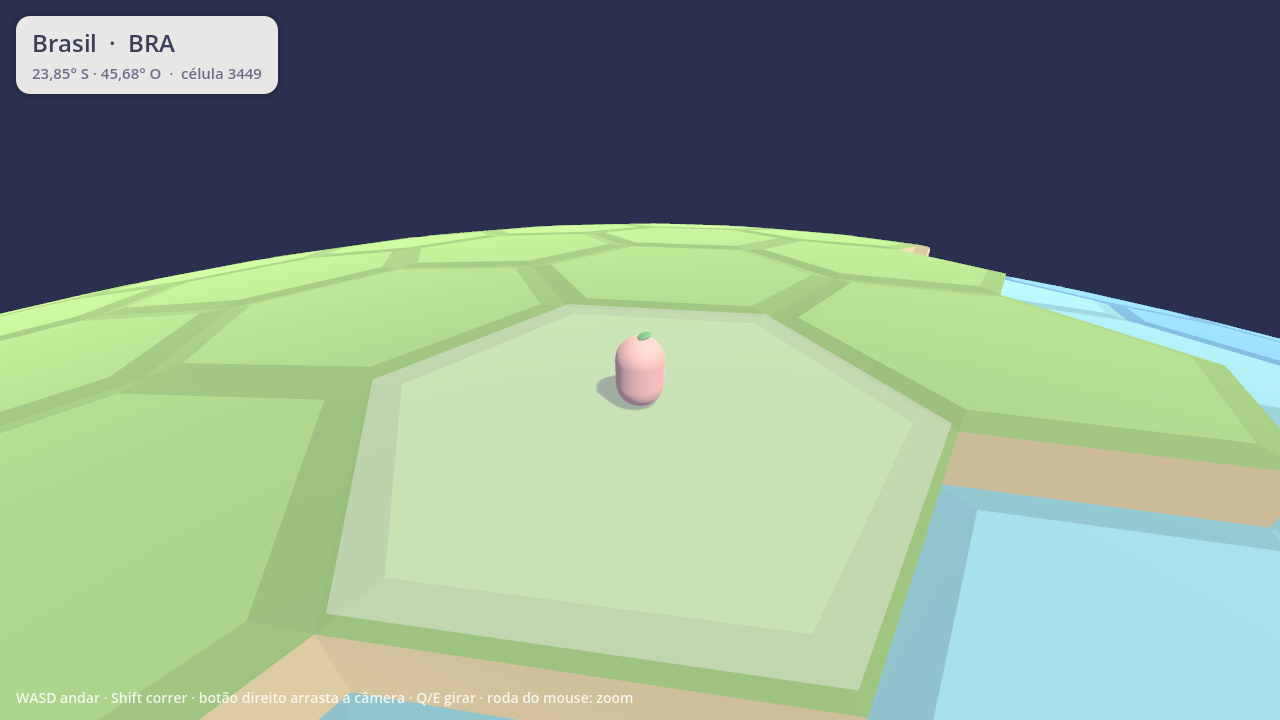
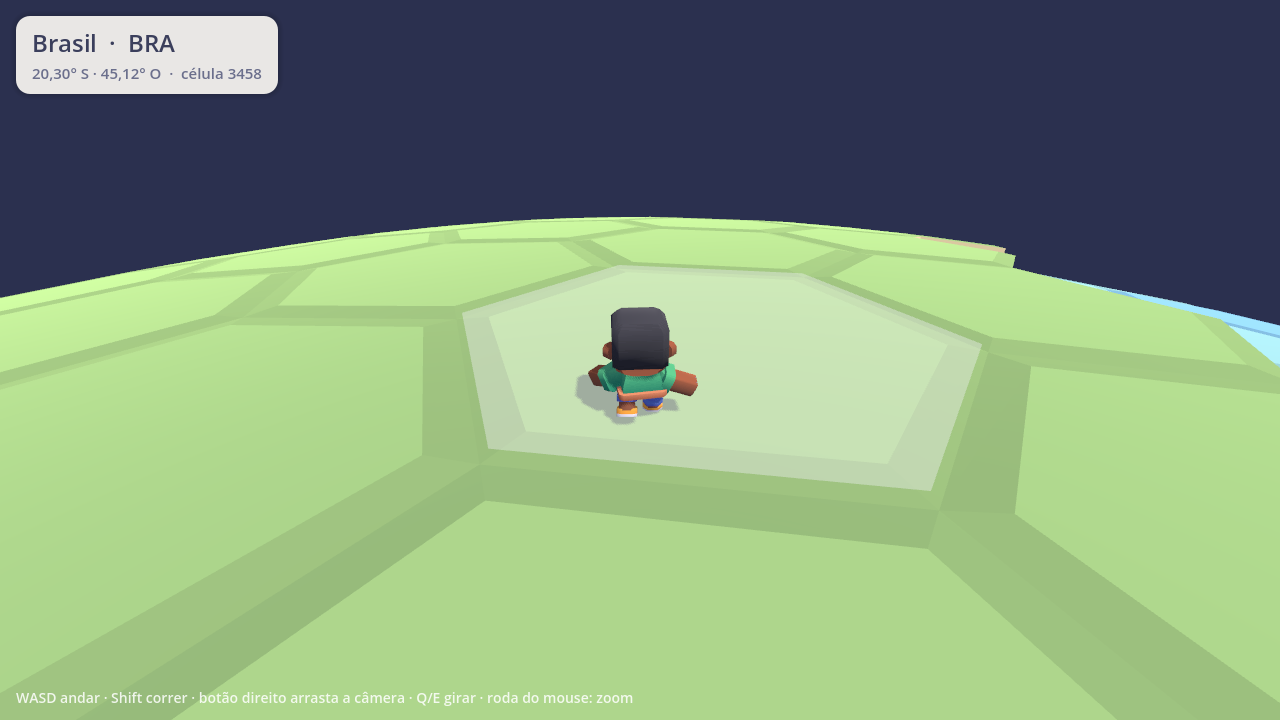
Adiciona créditos da Kenney e explica PATH do Go e servidor
Cria client/assets/CREDITOS.md, seção de créditos no README, instruções para
pôr ~/sdk/go/bin no PATH e aviso de que o servidor precisa rodar num terminal
separado antes do Play. Atualiza imagens e GIF com o personagem novo.

diff --git a/README.md b/README.md
@@ -16,7 +16,7 @@
 </p>
 
 <p align="center">
-  <img src="docs/imagens/passeio.gif" alt="Personagem rosa andando sobre hexágonos verdes no Brasil; a câmera se afasta até mostrar o globo inteiro girando e depois volta" width="720" />
+  <img src="docs/imagens/passeio.gif" alt="Personagem andando sobre hexágonos verdes no Brasil; a câmera se afasta até mostrar o globo inteiro girando e depois volta" width="720" />
 </p>
 
 ---
@@ -33,6 +33,7 @@
 - [Controles](#controles)
 - [Testes](#testes)
 - [Dados](#dados)
+- [Créditos](#créditos)
 - [Roadmap](#roadmap)
 - [Sobre mim](#sobre-mim)
 
@@ -48,6 +49,7 @@ O que já dá para fazer:
 
 - [x] Ver um **globo low-poly** com os continentes reais, dividido em **4.002 hexágonos** (e 12 pentágonos, como numa bola de futebol)
 - [x] **Zoom contínuo** do personagem até o planeta inteiro, que gira devagar sozinho
+- [x] **Personagem animado** (Mini Characters da Kenney) que fica parado, anda e corre com transição suave e vira para onde está indo
 - [x] **Andar com WASD** por cima da esfera, com a gravidade puxando para o centro: dá para dar a volta ao mundo
 - [x] **Não entrar no oceano** (o personagem desliza pela costa)
 - [x] **HUD** com o país e a latitude/longitude do hexágono embaixo do personagem, que fica destacado
@@ -58,7 +60,7 @@ O que já dá para fazer:
 
 | Perto do personagem | Meia distância | O planeta inteiro |
 | --- | --- | --- |
-| <img src="docs/imagens/perto.png" alt="Personagem rosa em cima de um hexágono destacado, com o mar e o degrau de areia ao lado" width="300" /> | <img src="docs/imagens/meio.png" alt="Litoral de São Paulo em hexágonos: terra verde elevada e mar azul-claro" width="300" /> | <img src="docs/imagens/globo.png" alt="Globo com a América do Sul e a África em hexágonos verdes sobre o oceano azul" width="300" /> |
+| <img src="docs/imagens/perto.png" alt="Personagem do Mini Characters andando em cima de um hexágono destacado" width="300" /> | <img src="docs/imagens/meio.png" alt="Litoral de São Paulo em hexágonos: terra verde elevada e mar azul-claro" width="300" /> | <img src="docs/imagens/globo.png" alt="Globo com a América do Sul e a África em hexágonos verdes sobre o oceano azul" width="300" /> |
 
 ## Arquitetura
 
@@ -108,6 +110,7 @@ Mais detalhes em [`docs/ARQUITETURA.md`](docs/ARQUITETURA.md) e nas decisões em
 | Servidor | Go 1.27, biblioteca padrão | Binário único, rápido, testes embutidos |
 | Geometria | [`paulmach/orb`](https://github.com/paulmach/orb) | GeoJSON e point-in-polygon prontos |
 | Cliente | Godot 4.7 + GDScript | Leve, código aberto, exporta para tudo; física com `up_direction` livre |
+| Arte 3D | [Kenney](https://www.kenney.nl) (CC0) | Personagens low-poly fofos com animações prontas |
 | Dados | Natural Earth 1:110m | Domínio público, com nomes dos países em português |
 | CI | GitHub Actions | `gofmt`, `go vet` e `go test -race` a cada push |
 
@@ -117,6 +120,7 @@ Mais detalhes em [`docs/ARQUITETURA.md`](docs/ARQUITETURA.md) e nas decisões em
 .
 ├── client/                    # Godot 4
 │   ├── project.godot
+│   ├── assets/kenney/         # Mini Characters, Graveyard Kit, Monster Builder (CC0)
 │   ├── scenes/                # main.tscn, player.tscn
 │   └── scripts/               # world_data, globe_builder, player, camera_rig, hud, main
 ├── server/                    # Go
@@ -139,7 +143,19 @@ Mais detalhes em [`docs/ARQUITETURA.md`](docs/ARQUITETURA.md) e nas decisões em
 
 Pré-requisitos: [Go 1.27+](https://go.dev/dl/) e [Godot 4.7+](https://godotengine.org/download) (versão padrão, não a .NET).
 
-**1. Servidor**
+> **No meu Mac** (Intel), Go e Godot foram instalados fora do Homebrew, em `~/sdk`. O Go fica em `~/sdk/go/bin`, que precisa estar no `PATH`. Para deixar isso permanente:
+>
+> ```bash
+> echo 'export PATH="$HOME/sdk/go/bin:$PATH"' >> ~/.zshrc && source ~/.zshrc
+> go version   # go1.27.3 darwin/amd64
+> ```
+>
+> O Godot fica em `~/sdk/godot/Godot.app` (dá para arrastar para `/Applications`).
+
+> [!IMPORTANT]
+> **O servidor precisa estar rodando antes de dar Play no Godot.** O cliente não gera o mundo: ele baixa tudo do servidor. Deixe o servidor aberto num **terminal separado** enquanto joga. Sem ele, o jogo mostra "Sem resposta do servidor" e fica tentando de novo a cada 3 segundos.
+
+**1. Servidor (terminal 1, deixe aberto)**
 
 ```bash
 cd server
@@ -148,18 +164,20 @@ go run ./cmd/server
 # servidor no ar endereço=:8080
 ```
 
-Opções: `-addr :8080`, `-frequency 20` (células = 10·n²+2) e `-radius 100`, ou as variáveis `GOBLO_ADDR`, `GOBLO_FREQUENCY` e `GOBLO_RADIUS`.
+Opções: `-addr :8080`, `-frequency 20` (células = 10·n²+2) e `-radius 100`, ou as variáveis `GOBLO_ADDR`, `GOBLO_FREQUENCY` e `GOBLO_RADIUS`. Para parar, `Ctrl+C`.
 
-**2. Cliente**
+**2. Cliente (Godot)**
 
-Com o servidor rodando, abra o Godot, clique em **Importar**, escolha `client/project.godot` e aperte **F5**. Ou pela linha de comando:
+Com o servidor no ar, abra o Godot, clique em **Importar**, escolha `client/project.godot` e aperte **F5**. Ou, num segundo terminal:
 
 ```bash
 cd client
-godot --path .
+~/sdk/godot/Godot.app/Contents/MacOS/Godot --path .
 ```
 
-O cliente procura o servidor em `http://127.0.0.1:8080`. Para trocar: `godot --path . -- --server=http://outro:8080`, a variável `GOBLO_SERVER_URL` ou a opção `goblo/server_url` no `project.godot`. Se o servidor estiver fora do ar, o jogo avisa e tenta de novo a cada 3 segundos.
+O cliente procura o servidor em `http://127.0.0.1:8080`. Para trocar: `godot --path . -- --server=http://outro:8080`, a variável `GOBLO_SERVER_URL` ou a opção `goblo/server_url` no `project.godot`.
+
+**Trocar o personagem:** selecione o nó `Player` em `scenes/main.tscn` (ou abra `scenes/player.tscn`) e escolha outro na propriedade **Character** do Inspetor. São 12 opções, de `character-female-a` a `character-male-f`. A altura fica em **Model Height**.
 
 ## Controles
 
@@ -199,6 +217,11 @@ godot --headless --path . -- --smoke-test --walk=30   # de São Paulo para o nor
 
 Terra e países vêm do [Natural Earth](https://www.naturalearthdata.com/) na escala 1:110m (domínio público). Os arquivos ficam em `server/data/naturalearth/` e são embutidos no binário; para baixar de novo, `server/scripts/baixar-dados.sh`. Fonte, versão e observações em [`docs/DADOS.md`](docs/DADOS.md).
 
+## Créditos
+
+- **Personagem e assets 3D/2D:** [Kenney](https://www.kenney.nl), pacotes Mini Characters, Graveyard Kit e Monster Builder Pack, licença [CC0](https://creativecommons.org/publicdomain/zero/1.0/). Detalhes em [`client/assets/CREDITOS.md`](client/assets/CREDITOS.md).
+- **Mapa:** [Natural Earth](https://www.naturalearthdata.com/), domínio público.
+
 ## Roadmap
 
 1. **Fase 1: o globo.** Globo, personagem andando e servidor do mundo. ✅
@@ -217,4 +240,4 @@ Gostou do projeto, achou um bug ou tem uma ideia? Abra uma issue ou me chame no 
 
 ## Licença
 
-[MIT](LICENSE) © 2026 Lucas Barreto. Dados do Natural Earth em domínio público.
+[MIT](LICENSE) © 2026 Lucas Barreto. Dados do Natural Earth e assets da Kenney em domínio público (CC0).

diff --git a/CLAUDE.md b/CLAUDE.md
@@ -10,6 +10,11 @@ MMO cozy no planeta Terra de verdade, visto como um globo de sala de aula. Monor
 - `client/` — Godot 4 + GDScript. Baixa o mundo e só desenha; nunca gera mundo.
 - `docs/` — arquitetura, dados, briefings das fases e ADRs em `docs/decisoes/`.
 
+## Antes de tudo
+
+- **PATH do Go:** neste Mac o Go fica em `~/sdk/go/bin` (instalado fora do Homebrew, que não suporta mais Mac Intel). Garanta que está no `PATH` (`export PATH="$HOME/sdk/go/bin:$PATH"`) ou chame `~/sdk/go/bin/go` direto. O Godot fica em `~/sdk/godot/Godot.app/Contents/MacOS/Godot`.
+- **O servidor precisa estar rodando** (`cd server && go run ./cmd/server`, num terminal separado ou em segundo plano) antes de abrir o jogo ou rodar qualquer automação do cliente (`--smoke-test`, `--screenshot`, `--tour`). Sem ele, o cliente não tem mundo para desenhar.
+
 ## Comandos
 
 ```bash
@@ -31,9 +36,7 @@ godot --path . -- --screenshot=/tmp/a.png --zoom=0.5  # PNG da tela (precisa de 
 godot --path . --write-movie /tmp/f.png --fixed-fps 15 -- --tour   # quadros para o GIF
 ```
 
-Neste Mac, Go e Godot foram instalados fora do Homebrew: `~/sdk/go/bin/go` e `~/sdk/godot/Godot.app/Contents/MacOS/Godot`.
-
-Argumentos do cliente (depois de `--`): `--server=URL`, `--spawn=LAT,LON`, `--zoom=0..1`, `--walk=SEG`, `--smoke-test`, `--screenshot=ARQ`, `--tour`. A URL do servidor também vem de `GOBLO_SERVER_URL` ou de `goblo/server_url` no `project.godot`.
+Argumentos do cliente (depois de `--`): `--server=URL`, `--spawn=LAT,LON`, `--zoom=0..1`, `--walk=SEG`, `--dir=forward|back|left|right`, `--run`, `--moving`, `--smoke-test`, `--screenshot=ARQ`, `--tour`. Exemplo para ver a animação de corrida: `--screenshot=/tmp/a.png --zoom=0.05 --walk=1.5 --moving --run`. A URL do servidor também vem de `GOBLO_SERVER_URL` ou de `goblo/server_url` no `project.godot`.
 
 ## Convenções
 
@@ -45,6 +48,8 @@ Argumentos do cliente (depois de `--`): `--server=URL`, `--spawn=LAT,LON`, `--zo
 - **Determinismo:** mesma frequência + mesmos dados = mesmo JSON. Há teste para isso; não use mapas sem ordenar nem aleatoriedade na geração.
 - **Testes de geografia:** São Paulo é `BRA`, (0, -30) é oceano, oceano entre 60% e 80%. Se trocar dados ou frequência, esses testes precisam continuar passando.
 - **Godot:** cenas em `client/scenes/`, scripts em `client/scripts/` com `class_name`. Os arquivos `.uid` vão para o Git; a pasta `.godot/` não. UI montada em código (`hud.gd`) para ficar fácil de revisar.
+- **Assets:** só da Kenney (CC0), em `client/assets/kenney/`, com créditos em `client/assets/CREDITOS.md`. Copie apenas GLB + `Textures/` (os GLB procuram `Textures/colormap.png` pelo caminho relativo) ou PNG; nada de FBX/OBJ/prévias. Os `.import` vão para o Git. Pacotes originais baixados ficam em `kenney-original/`, que está no `.gitignore`.
+- **Personagem:** escolhido por `@export_enum var character` em `player.gd` e escalado para `model_height` medindo as malhas. Os modelos olham para +Z e são girados 180° (a frente no Godot é -Z). As animações vêm sem loop do GLB; `player.gd` liga o loop e monta um `AnimationTree` com `BlendSpace1D` (0 idle, 1 walk, 2 sprint).
 - **Escala:** raio 100, personagem ~1, velocidade 4,5. Tabela completa em `docs/ARQUITETURA.md`.
 
 ## Onde fica cada coisa
@@ -56,7 +61,8 @@ Argumentos do cliente (depois de `--`): `--server=URL`, `--spawn=LAT,LON`, `--zo
 | formato do JSON / cache | `server/internal/world/world.go` |
 | rotas HTTP | `server/internal/httpapi/httpapi.go` |
 | cores e malha do globo | `client/scripts/globe_builder.gd` |
-| movimento e bloqueio do oceano | `client/scripts/player.gd` |
+| movimento, bloqueio do oceano, personagem e animação | `client/scripts/player.gd` |
+| assets e créditos | `client/assets/` |
 | câmera e zoom | `client/scripts/camera_rig.gd` |
 | HUD | `client/scripts/hud.gd` |
 | fluxo de inicialização e automações | `client/scripts/main.gd` |

diff --git a/docs/ARQUITETURA.md b/docs/ARQUITETURA.md
@@ -98,7 +98,7 @@ O mundo é gerado uma vez na inicialização (~0,8 s) e servido do cache.
 | `scenes/main.tscn` + `scripts/main.gd` | baixa o mundo, monta o globo, solta o personagem; automações de teste |
 | `scripts/world_data.gd` | dados do mundo e busca de célula por direção (caminha pelos vizinhos: O(1) por quadro) |
 | `scripts/globe_builder.gd` | uma `ArrayMesh` com cor por vértice, sombreamento flat, terra elevada, paredes na costa |
-| `scenes/player.tscn` + `scripts/player.gd` | `CharacterBody3D` com gravidade para o centro e bloqueio do oceano |
+| `scenes/player.tscn` + `scripts/player.gd` | `CharacterBody3D` com gravidade para o centro e bloqueio do oceano; modelo do Mini Characters com idle/walk/sprint num `AnimationTree` |
 | `scripts/camera_rig.gd` | câmera em terceira pessoa com zoom contínuo até o planeta inteiro |
 | `scripts/hud.gd` | país, lat/lon e id da célula atual |
 | `scripts/input_setup.gd` | ações de teclado |
@@ -120,7 +120,7 @@ O zoom vai de 0 (3,5 unidades do personagem) a 1 (165 unidades acima da superfí
 | Raio do planeta | 100 | `-radius` / `GOBLO_RADIUS` no servidor |
 | Células | 4.002 (`n = 20`) | `-frequency` / `GOBLO_FREQUENCY` |
 | Altura da terra | 0,8 | `land_height` em `main.gd` |
-| Personagem | 0,9 de altura | `scenes/player.tscn` |
+| Personagem | 1,0 de altura | `model_height` em `player.gd` |
 | Velocidade | 4,5 (×1,8 correndo) | `walk_speed` em `player.gd` |
 
 A volta ao mundo pelo equador tem ~630 unidades: ~2 min e 20 s andando, ~1 min e 20 s correndo (sem contar desvios do oceano).

diff --git a/client/assets/CREDITOS.md b/client/assets/CREDITOS.md
@@ -1,0 +1,13 @@
+# Créditos dos assets
+
+Todos os pacotes abaixo são de **Kenney** ([www.kenney.nl](https://www.kenney.nl)), sob licença **Creative Commons Zero (CC0)**: podem ser usados em projetos pessoais, educacionais e comerciais, sem obrigação de atribuição. Damos o crédito mesmo assim. Obrigado, Kenney!
+
+| Pacote | Versão | Pasta | O que copiamos | Uso |
+| --- | --- | --- | --- | --- |
+| [Mini Characters](https://kenney.nl/assets/mini-characters) | 1.0 | `kenney/mini-characters/` | modelos GLB + `Textures/colormap.png` | personagem jogável (fase 1) |
+| [Graveyard Kit](https://kenney.nl/assets/graveyard-kit) | 5.0 | `kenney/graveyard-kit/` | modelos GLB + `Textures/colormap.png` | guardado para a fase 2 (construção) |
+| [Monster Builder Pack](https://kenney.nl/assets/monster-builder-pack) | 1.0 | `kenney/monster-builder/` | `PNG/` (2D) | guardado, ainda sem uso |
+
+O `License.txt` original de cada pacote está na pasta dele. Licença CC0: <https://creativecommons.org/publicdomain/zero/1.0/>.
+
+Não copiamos as versões FBX e OBJ, as prévias nem os arquivos de vetor e spritesheet. Para atualizar um pacote, baixe de novo do site da Kenney e copie só as mesmas pastas.
